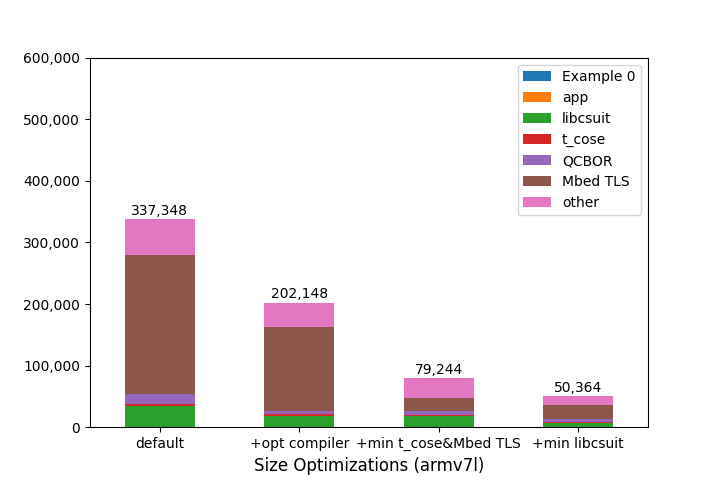
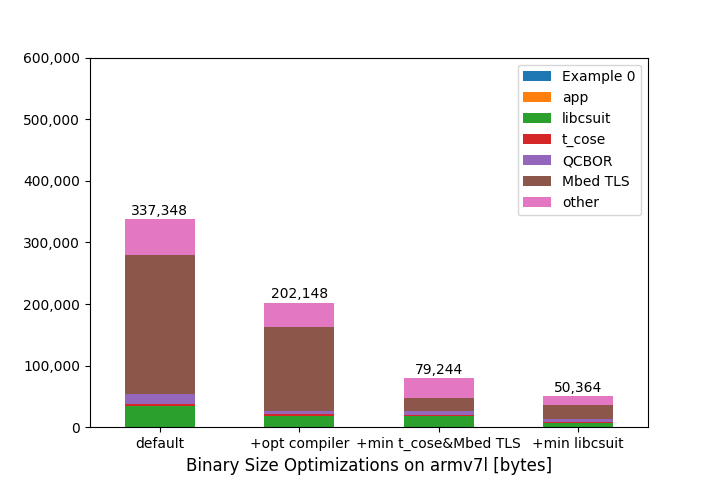
update: legends

Changed region(s): [[0.2444, 0.9375, 0.7639, 1.0]]

diff --git a/misc/calc_table.py b/misc/calc_table.py
@@ -52,7 +52,7 @@ max_total = max(tmp)
 plt.figure()
 ndf = ndf["Example 0":"other"].transpose()
 ndf.plot.bar(stacked=True)
-plt.xlabel(f"Size Optimizations ({arch})", fontsize=12)
+plt.xlabel(f"Binary Size Optimizations on {arch} [bytes]", fontsize=12)
 plt.xticks(rotation = 0)
 plt.ylim([0, 600000])
 plt.yticks(plt.yticks()[0], ["{:,}".format(int(i)) for i in plt.yticks()[0]])
